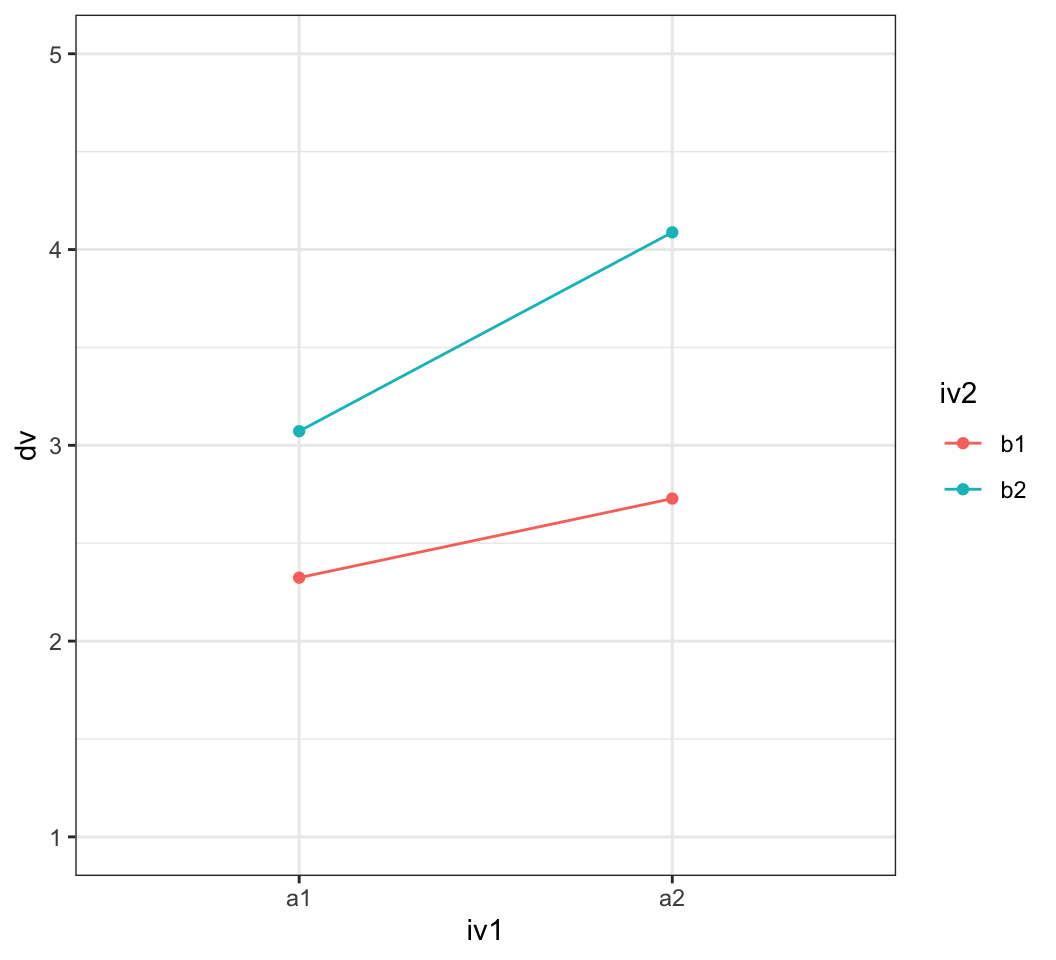
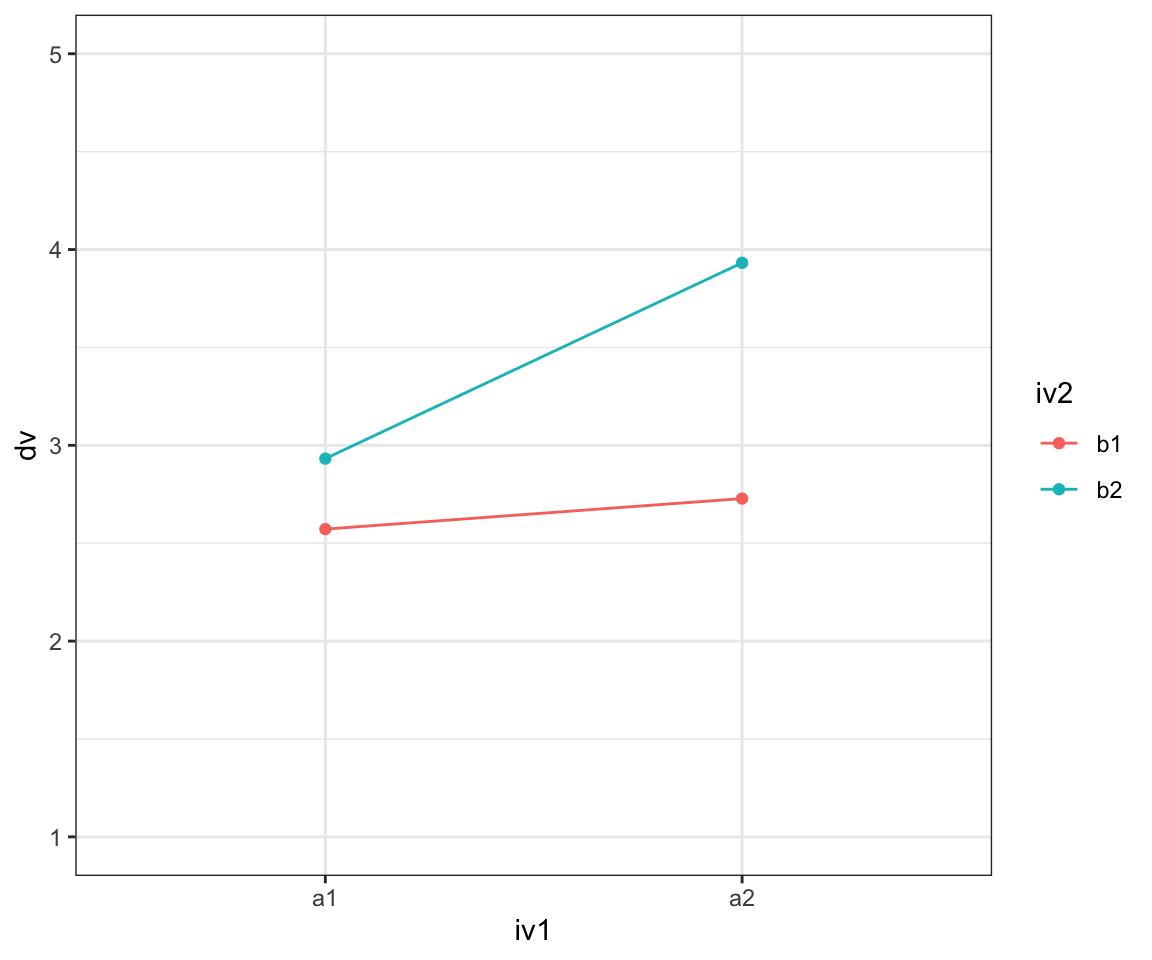
Small updates.

diff --git a/README.md b/README.md
@@ -1,6 +1,12 @@
 
 # Simulate power for 2x2 designs
 
+``` r
+library(tidyverse)
+library(MonteCarlo)
+library(effectsize)
+```
+
 1.  Make assumptions about the mean differences and standard deviations
 
 2.  Simulate data (e.g., 1000 times)
@@ -13,7 +19,33 @@ First, we need to specify a function that simulates data that aligns
 with our assumptions. Here is an example that simulates a 2x2
 between-subject design.
 
-    ## `summarise()` has grouped output by 'iv1'. You can override using the `.groups` argument.
+``` r
+# Function to simulate means 
+sim_data <- function(n = 1000, 
+                     means = c(2.5, 2.75,  # a1b1, a2b1
+                               3,   4),   # a1b2, a2b2
+                     sd = 1) {
+  
+  # simulate data
+  dv <- rnorm(n, mean = means , sd = sd) %>% round(0)
+  iv1 <- rep(c("a1", "a2"),each = 1, n/2)
+  iv2 <- rep(c("b1", "b2"), each = 2, n/4)
+  d <-data.frame(dv, iv1, iv2)
+  return(d)
+}
+
+# Check data simulation
+sim_data() %>%
+  group_by(iv1, iv2) %>%
+  summarise(m = mean(dv)) %>%
+  ggplot(aes(x = factor(iv1), y = m, color = iv2, group = iv2)) +
+  geom_point() +
+  geom_line() +
+  ylim(1, 5) +
+  theme_bw() +
+  labs(y = "dv", x = "iv1")
+## `summarise()` has grouped output by 'iv1'. You can override using the `.groups` argument.
+```
 
 <img src="figures/unnamed-chunk-2-1.png" width="100%" />
 
@@ -23,64 +55,138 @@ Next, we create a function that simulates the data, fits the models,
 extracts p-values, significance (based on p &lt; .05), and the effect
 size.
 
-    ## $p_1
-    ## [1] 6.080034e-06
-    ## 
-    ## $sig_1
-    ## [1] TRUE
-    ## 
-    ## $p_2
-    ## [1] 6.504763e-09
-    ## 
-    ## $sig_2
-    ## [1] TRUE
-    ## 
-    ## $p_3
-    ## [1] 0.006859086
-    ## 
-    ## $sig_3
-    ## [1] TRUE
-    ## 
-    ## $es_1
-    ## [1] 0.1866562
-    ## 
-    ## $es_2
-    ## [1] 0.2407956
-    ## 
-    ## $es_3
-    ## [1] 0.1111314
+``` r
+# Simulation function
+sim_func <- function(n = 600, 
+                     means = c(2.5, 2.75,  
+                               3,   4),
+                     sd = 1.5) {
+  
+  # simulate data
+  d <- sim_data(n = n, mean = means, sd = sd) # using the function from above
+  
+  # Fit models
+  fit1 <- lm(dv ~ iv1, d)
+  fit2 <- lm(dv ~ iv2, d)
+  fit3 <- lm(dv ~ iv1*iv2, d)
+  
+  # extract p-values and compute significance
+  p_1 <- summary(fit1)$coef[2,4]
+  sig_1 <- ifelse(p_1 < .05, TRUE, FALSE)
+  p_2 <- summary(fit2)$coef[2,4]
+  sig_2 <- ifelse(p_2 < .05, TRUE, FALSE)
+  p_3 <- summary(fit3)$coef[4,4]
+  sig_3 <- ifelse(p_3 < .05, TRUE, FALSE)
+  
+  # extract effect size
+  es_1 <- cohens_f(fit1, verbose = F) %>% 
+    as.data.frame() %>%
+    select(Cohens_f) %>%
+    as.numeric
+  es_2 <- cohens_f(fit2, verbose = F) %>% 
+    as.data.frame() %>%
+    select(Cohens_f) %>%
+    as.numeric
+  es_3 <- cohens_f(fit3, verbose = F) %>% 
+    as.data.frame() %>%
+    filter(Parameter == "iv1:iv2") %>%
+    select(Cohens_f_partial) %>%
+    as.numeric
+
+
+  # return values as list
+  return(list("p_1" = p_1,
+              "sig_1" = sig_1,
+              "p_2" = p_2,
+              "sig_2" = sig_2,
+              "p_3" = p_3,
+              "sig_3" = sig_3,
+              "es_1" = es_1,
+              "es_2" = es_2,
+              "es_3" = es_3))
+}
+
+# check
+sim_func()
+## $p_1
+## [1] 3.164735e-07
+## 
+## $sig_1
+## [1] TRUE
+## 
+## $p_2
+## [1] 1.8038e-07
+## 
+## $sig_2
+## [1] TRUE
+## 
+## $p_3
+## [1] 2.087298e-05
+## 
+## $sig_3
+## [1] TRUE
+## 
+## $es_1
+## [1] 0.2114976
+## 
+## $es_2
+## [1] 0.215945
+## 
+## $es_3
+## [1] 0.1757126
+```
 
 # Specify simulation parameters
 
 Now, we create a list that how the parameters, in this cases the sample
 size and the standard devations, should vary.
 
-    ## $n
-    ##  [1] 100 140 180 220 260 300 340 380 420 460 500 540 580 620 660 700 740 780 820
-    ## [20] 860 900 940 980
-    ## 
-    ## $sd
-    ## [1] 1.0 1.5 2.0
+``` r
+n_grid <- seq(100, 1000, 40) 
+sd_grid <- c(1, 1.5, 2) 
+
+# Collect simulation parameters in list
+(param_list <- list("n" = n_grid,
+                    "sd" = sd_grid))
+## $n
+##  [1] 100 140 180 220 260 300 340 380 420 460 500 540 580 620 660 700 740 780 820
+## [20] 860 900 940 980
+## 
+## $sd
+## [1] 1.0 1.5 2.0
+```
 
 # Run simulation
 
 Now, we can run the actual simulation. Here, we use 1.000 runs per
 combination (this may take a bit)
 
-    ##     n sd          p_1 sig_1          p_2 sig_2          p_3 sig_3      es_1
-    ## 1 100  1 5.112261e-03     1 6.259447e-07     1 3.327282e-02     1 0.2893434
-    ## 2 140  1 2.831864e-04     1 1.642343e-03     1 5.843402e-02     0 0.3171480
-    ## 3 180  1 1.016670e-04     1 8.045243e-08     1 9.104531e-06     1 0.2980356
-    ## 4 220  1 1.958832e-05     1 1.926542e-08     1 3.091118e-02     1 0.2956716
-    ## 5 260  1 1.940382e-06     1 4.077271e-12     1 2.110937e-05     1 0.3032452
-    ## 6 300  1 2.273831e-05     1 1.500109e-09     1 8.741741e-03     1 0.2493491
-    ##        es_2      es_3
-    ## 1 0.5385165 0.2204413
-    ## 2 0.2733941 0.1636524
-    ## 3 0.4196644 0.3445721
-    ## 4 0.3952119 0.1478156
-    ## 5 0.4531151 0.2708381
-    ## 6 0.3614696 0.1534202
+``` r
+result <- MonteCarlo(func = sim_func,             # pass test function
+                     nrep = 1000,                 # number of tests
+                     ncpus = 1,                   # number of cores to be used
+                     param_list = param_list)     # provide parameters
+```
+
+``` r
+# Create result data frame
+df <- MakeFrame(result)
+head(df)
+##     n sd          p_1 sig_1          p_2 sig_2          p_3 sig_3      es_1
+## 1 100  1 1.326314e-04     1 2.861469e-03     1 0.0014183037     1 0.4019587
+## 2 140  1 1.403719e-01     0 8.697630e-04     1 0.0596479815     0 0.1262358
+## 3 180  1 4.263011e-05     1 8.523920e-07     1 0.0076651907     1 0.3145835
+## 4 220  1 1.649992e-06     1 4.686557e-09     1 0.0110495102     1 0.3337034
+## 5 260  1 1.930350e-05     1 1.046554e-08     1 0.1868721878     0 0.2710592
+## 6 300  1 4.634732e-09     1 5.495895e-13     1 0.0006552488     1 0.3497727
+##        es_2       es_3
+## 1 0.3090350 0.33541020
+## 2 0.2897638 0.16286023
+## 3 0.3824838 0.20333354
+## 4 0.4133922 0.17440651
+## 5 0.3682874 0.08271455
+## 6 0.4371129 0.20019592
+```
 
 # Results
 
@@ -89,36 +195,67 @@ combination (this may take a bit)
 We can now have a look at the results (e.g., by summarising the power or
 effect sizes across the different specifications).
 
-    ## # A tibble: 207 x 4
-    ## # Groups:   n, sd [69]
-    ##        n    sd key   power
-    ##    <dbl> <dbl> <chr> <dbl>
-    ##  1   100   1   sig_1   797
-    ##  2   100   1   sig_2   981
-    ##  3   100   1   sig_3   417
-    ##  4   100   1.5 sig_1   483
-    ##  5   100   1.5 sig_2   786
-    ##  6   100   1.5 sig_3   222
-    ##  7   100   2   sig_1   297
-    ##  8   100   2   sig_2   574
-    ##  9   100   2   sig_3   155
-    ## 10   140   1   sig_1   920
-    ## # … with 197 more rows
-    ## # A tibble: 207 x 7
-    ## # Groups:   n, sd [69]
-    ##        n    sd key   cohens_f      se    ll    ul
-    ##    <dbl> <dbl> <chr>    <dbl>   <dbl> <dbl> <dbl>
-    ##  1   100   1   es_1     0.277 0.00298 0.271 0.283
-    ##  2   100   1   es_2     0.408 0.00333 0.401 0.414
-    ##  3   100   1   es_3     0.187 0.00310 0.181 0.193
-    ##  4   100   1.5 es_1     0.200 0.00305 0.194 0.206
-    ##  5   100   1.5 es_2     0.283 0.00326 0.276 0.289
-    ##  6   100   1.5 es_3     0.136 0.00274 0.130 0.141
-    ##  7   100   2   es_1     0.156 0.00294 0.150 0.162
-    ##  8   100   2   es_2     0.220 0.00314 0.214 0.227
-    ##  9   100   2   es_3     0.115 0.00252 0.110 0.120
-    ## 10   140   1   es_1     0.277 0.00250 0.272 0.281
-    ## # … with 197 more rows
+``` r
+# Power in each combination
+df %>%
+  select(-contains("p"), -contains("es")) %>%
+  gather(key, value, -n, -sd) %>%
+  group_by(n, sd, key) %>%
+  summarize(power = sum(value))
+## # A tibble: 207 x 4
+## # Groups:   n, sd [69]
+##        n    sd key   power
+##    <dbl> <dbl> <chr> <dbl>
+##  1   100   1   sig_1   797
+##  2   100   1   sig_2   986
+##  3   100   1   sig_3   412
+##  4   100   1.5 sig_1   508
+##  5   100   1.5 sig_2   785
+##  6   100   1.5 sig_3   196
+##  7   100   2   sig_1   306
+##  8   100   2   sig_2   552
+##  9   100   2   sig_3   159
+## 10   140   1   sig_1   924
+## # … with 197 more rows
+
+# Average effect size in each combination
+(es <- df %>%
+  select(-contains("p"), -contains("sig")) %>%
+  gather(key, value, -n, -sd) %>%
+  group_by(n, sd, key) %>%
+  summarize(cohens_f = mean(value),
+            se = psych::describe(value)$se,
+            ll = cohens_f - 1.96*se,
+            ul = cohens_f + 1.96*se))
+## # A tibble: 207 x 7
+## # Groups:   n, sd [69]
+##        n    sd key   cohens_f      se    ll    ul
+##    <dbl> <dbl> <chr>    <dbl>   <dbl> <dbl> <dbl>
+##  1   100   1   es_1     0.277 0.00290 0.271 0.283
+##  2   100   1   es_2     0.406 0.00317 0.400 0.412
+##  3   100   1   es_3     0.185 0.00305 0.179 0.191
+##  4   100   1.5 es_1     0.203 0.00298 0.197 0.208
+##  5   100   1.5 es_2     0.282 0.00323 0.276 0.288
+##  6   100   1.5 es_3     0.131 0.00284 0.126 0.137
+##  7   100   2   es_1     0.155 0.00282 0.150 0.161
+##  8   100   2   es_2     0.218 0.00328 0.211 0.224
+##  9   100   2   es_3     0.116 0.00263 0.111 0.121
+## 10   140   1   es_1     0.280 0.00250 0.275 0.285
+## # … with 197 more rows
+
+# Plot effect sizes
+es %>%
+  ggplot(aes(x = n, y = cohens_f, color = key)) +
+  geom_point(alpha = .5, size = 1) +
+  geom_smooth(se = F) +
+  facet_wrap(~sd, ncol = 3) +
+  theme_bw() +
+  labs(title = "Effect sizes",
+       x = "sample size (n)",
+       y = "effect size (cohen's f)",
+       color = "Type of effect",
+       caption = "Note: facets represent different standard deviations")
+```
 
 <img src="figures/unnamed-chunk-7-1.png" width="100%" />
 
@@ -127,5 +264,25 @@ effect sizes across the different specifications).
 Most importantly, we can plot so-called power curves that tell us how
 much power we achieve (on average) for each specification. This helps to
 decide for an appropriate sample size.
+
+``` r
+df %>%
+  select(-contains("p"), -contains("es")) %>%
+  gather(key, value, -n, -sd) %>%
+  group_by(n, sd, key) %>%
+  summarize(power = sum(value)/10) %>%
+  ggplot(aes(x = n, y = power, color = key)) +
+  geom_smooth(se = F) +
+  geom_point() +
+  geom_hline(yintercept = 80, linetype = "dashed") +
+  geom_hline(yintercept = 95, linetype = "dashed") +
+  facet_wrap(~sd) +
+  theme_bw() +
+  labs(title = "Power Curves",
+       x = "sample size (n)", 
+       y = "power (1-beta)", 
+       color = "type of effect",
+       caption = "Note: facets represent different standard deviations")
+```
 
 <img src="figures/unnamed-chunk-8-1.png" width="100%" />
